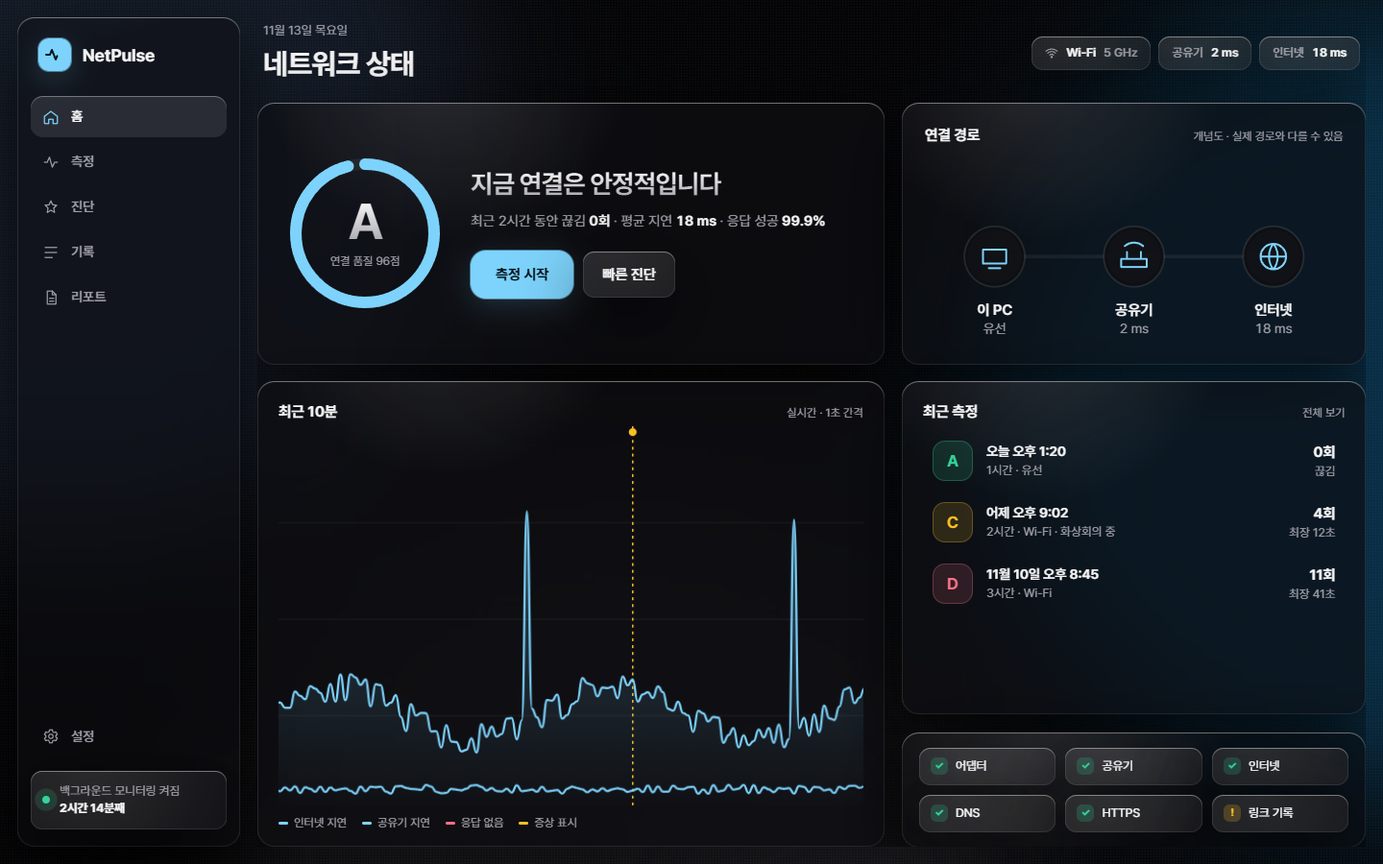
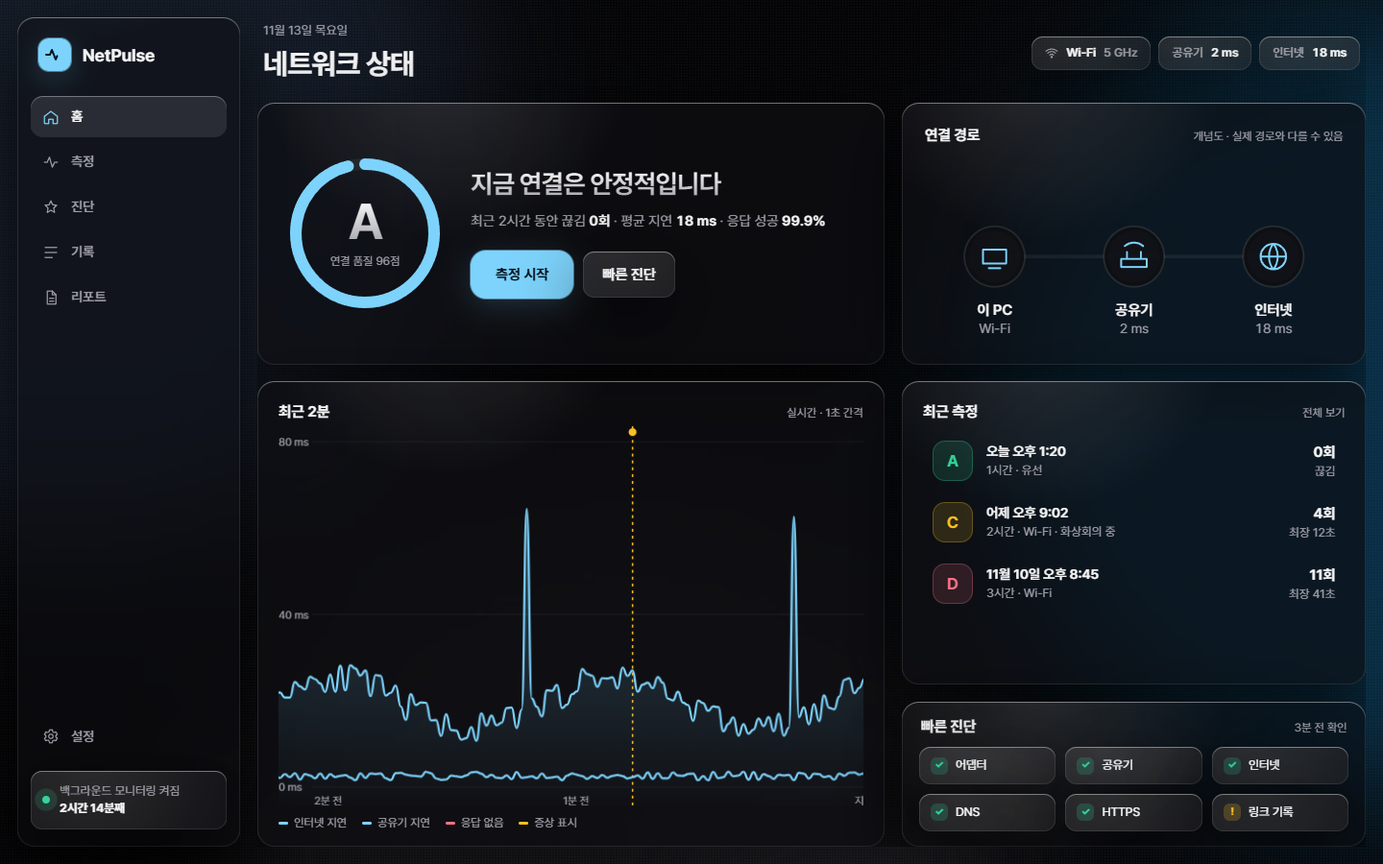
Regenerate M0 results from a clean commit and rewrite the report
All three spikes were measured again from commit 9540198 with a clean
worktree. The results table now comes straight from the summary files,
the public captures are replaced, the stripe test backs the glass
verdict, and the report lists the dependencies and minimum Windows build
that the stack decision would cover.

diff --git a/spikes/design/home-mockups.html b/spikes/design/home-mockups.html
@@ -458,14 +458,15 @@ function draw(now) {
   const w = canvas.clientWidth, h = canvas.clientHeight; if (!w || !h) return;
   ctx.clearRect(0, 0, w, h);
   const step = w / (N - 2), shift = root.dataset.motion === 'reduce' ? 0 : Math.min(1, (now - lastArrival) / 1000) * step;
-  const y = (v) => h - 20 - (v / 80) * (h - 36), x = (i) => w - (N - 1 - i) * step - shift;
+  const y = (v) => h - 26 - (v / 80) * (h - 42), x = (i) => w - (N - 1 - i) * step - shift;
   // 축: 지연 0·40·80 ms, 시간 2분 전·1분 전·지금
   ctx.strokeStyle = css('--faint'); ctx.lineWidth = 1;
   ctx.fillStyle = css('--muted'); ctx.font = '11px Pretendard, "Segoe UI", sans-serif';
   for (const v of [0, 40, 80]) { ctx.beginPath(); ctx.moveTo(34, y(v)); ctx.lineTo(w, y(v)); ctx.stroke(); ctx.fillText(v + ' ms', 0, y(v) + 4); }
   ctx.textAlign = 'center';
-  [['2분 전', 0.06], ['1분 전', 0.5]].forEach(([t, r]) => ctx.fillText(t, w * r + (r < .1 ? 14 : 0), h - 4));
-  ctx.textAlign = 'right'; ctx.fillText('지금', w, h - 4); ctx.textAlign = 'left';
+  ctx.textBaseline = 'bottom';
+  [['2분 전', 0.06], ['1분 전', 0.5]].forEach(([t, r]) => ctx.fillText(t, w * r + (r < .1 ? 14 : 0), h - 6));
+  ctx.textAlign = 'right'; ctx.fillText('지금', w, h - 6); ctx.textAlign = 'left'; ctx.textBaseline = 'alphabetic';
   // 응답 없음 구간: 세로 띠
   const bad = css('--bad');
   ctx.fillStyle = bad + '33';

diff --git a/docs/loop/m0/spike-report.md b/docs/loop/m0/spike-report.md
@@ -1,70 +1,61 @@
 # M0 스파이크 결과 보고서
 
-- 측정일: 2026-11-13
-- 환경: Windows 11 빌드 26300, 165 Hz 화면, 배율 100%, 관리자 권한 없음
+- 측정일: 2026-11-13. 환경: Windows 11 빌드 26300, 165 Hz 화면, 배율 100%, 관리자 권한 없음
 - 합격선: `docs/loop/DECISIONS.md` "M0 스파이크 합격선" (측정 전에 커밋 `875dd28`로 기록)
-- 원본 로그: `.loop/logs/m0/` (커밋 제외. 이 PC의 실행 기록이라서다)
+- **수치 판정표: [`spike-results.md`](spike-results.md)** — 측정 요약 JSON에서 `spikes/tools/make-results.mjs`가 만든다. 이 보고서는 수치를 옮겨 적지 않고 그 표를 근거로 쓴다.
+- 측정한 소스: 커밋 `9540198`, 깨끗한 작업트리. 세 후보 모두 `spikes/tools/run-spike.ps1` 하나로 빌드부터 캡처까지 돈다.
+- 원본 로그: `.loop/logs/m0-r3/` (커밋 제외)
 
 ## 후보
 
 | 이름 | 구성 | 배포 형태 |
 | --- | --- | --- |
 | A-net10 | WinForms 창 + WebView2(웹 화면) + .NET 10 본체 | 자체 포함 단일 exe + `web` 폴더 |
-| A-net48 | 같은 코드, 본체만 Windows 내장 .NET Framework 4.8 | exe + DLL 4개 + `web` 폴더 |
-| C | WinUI 3 (Windows App SDK 2.6.5), .NET 10 | 자체 포함 단일 exe + 리소스 2개 |
+| A-net48 | 같은 코드, 본체만 Windows 내장 .NET Framework 4.8 | exe + DLL + `web` 폴더 |
+| C | WinUI 3 (Windows App SDK 2.6.5), .NET 10 | 자체 포함 단일 exe + `App.xbf` + 앱 `.pri` |
 
-세 후보가 같은 측정 루프(`spikes/shared/SpikeCore.cs`)를 쓰고, 같은 시험 장면을 그린다. 측정과 조작은 스크립트 하나로 돈다(`spikes/tools/run-spike-a.ps1`, `run-spike-c.ps1`).
+세 후보가 같은 측정 루프(`spikes/shared/SpikeCore.cs`)를 쓰고 같은 시험 장면을 그린다.
 
-## 결과
+## 판정
 
-| | 항목 | 합격선 | A-net10 | A-net48 | C |
-| --- | --- | --- | --- | --- | --- |
-| P1 | 창 안쪽 유리 | 패널 뒤가 흐려 보임 | 통과 | 통과 | 통과 |
-| P2 | 프레임 | 평균 55 fps↑, 95백분위 25 ms↓ | 165 fps / 6.2 ms | 165 fps / 6.2 ms | 165 fps / 6.3 ms |
-| | 테마 반복 전환 중 | | 164.7 / 6.2 | 163.2 / 6.2 | 164.7 / 6.3 |
-| | 화면 반복 전환 중 | | 164.7 / 6.2 | 163.3 / 6.2 | 164.7 / 6.2 |
-| P3 | CPU (전체 코어 기준) | 15%↓ | 6.8% | 6.5% | 1.6% |
-| | 메모리 (작업 집합 합계) | 400 MB↓ | **575.7 MB ✗** | **501.2 MB ✗** | 146.0 MB |
-| | (보조) 전용 작업 집합 | 판정에 안 씀 | 224.3 MB | 180.8 MB | 40.6 MB |
-| | 프로세스 수 | | 7 | 7 | 1 |
-| P4 | 측정 영향 (49회차) | 누락 0, 지연 최대 100 ms↓ | 0 / 15.0 ms | 0 / 15.5 ms | 0 / 15.1 ms |
-| P5 | 30초 숨김 | 누락 0, 5초 안에 최신값 | 0, 표시 42 (최신 40) | 0, 표시 43 (최신 40) | 0, 표시 42 (최신 40) |
-| P6 | 비관리자 진단 API | 모두 결과 또는 명시적 실패 | 통과 | 통과 | 통과 |
-| P7 | 배포 크기 | 300 MB↓ | 50.4 MB | 1.1 MB | 94.0 MB |
-| | 두 번째 실행 시작 시간 | 3초↓ | 1.1초 | 1.1초 | 0.6초 |
-| | 쓰기 금지 폴더에서 시작 | 가능 | 가능 | 가능 | 가능 |
-| P8 | 자동화 (빌드→실행→조작→읽기→캡처) | 스크립트 하나 | 통과 (CDP + Playwright) | 통과 | 통과 (UI Automation) |
-| P9 | 설정 읽기 + 대체 화면 | 가능 | 통과 | 통과 | 통과 |
-| | **판정** | P1~P8 모두 통과 | **불합격 (P3 메모리)** | **불합격 (P3 메모리)** | **합격** |
+| | A-net10 | A-net48 | C |
+| --- | --- | --- | --- |
+| P1 창 안쪽 유리 (캡처) | 통과 | 통과 (A-net10과 같은 웹 화면) | 통과 |
+| P2~P8 (자동, `spike-results.md`) | **P3 불합격** | **P3 불합격** | 통과 |
+| P9 대체 동작 (캡처 + 코드) | 통과 | 통과 | 통과 |
+| **종합** | **불합격** | **불합격** | **합격** |
 
-P5의 "표시"는 다시 보인 직후 화면에서 읽은 회차 번호이고, "최신"은 다시 보이는 순간 본체가 기록한 회차다. 읽기까지 2~3초가 걸려 화면 값이 더 크다.
+### P1 창 안쪽 유리 — 캡처 판정
+
+`spike/a-net10-glass-test.png`, `spike/c-glass-test.png`. 6 px 간격 흑백 줄무늬 위에 같은 12% 틴트의 패널 셋을 나란히 놓았다.
+
+- **틴트만**: 두 안 모두 줄무늬가 선명하게 비친다.
+- **블러 / Acrylic**: 두 안 모두 줄무늬가 회색으로 뭉개진다. 창 안쪽에서 뒤 콘텐츠를 실제로 흐린다는 증거다.
+- **불투명**: 두 안 모두 줄무늬가 가려진다.
+
+**차이**: A는 패널마다 블러 강도를 정할 수 있다(`backdrop-filter: blur(Npx)`). C의 `AcrylicBrush`에는 블러 강도 속성이 없다. WinUI 2.6.5 투영 어셈블리의 속성 이름에서 `Tint*`, `Fallback*`, `AlwaysUseFallback`만 찾았다. C에서 강도를 바꾸려면 Composition 효과를 직접 짜야 하고, 이것은 시험하지 않았다.
+
+### P3 메모리 — 불합격의 내용
+
+- A는 WebView2가 프로세스 7개를 띄운다. 작업 집합 합계의 10초 최대값이 합격선 400 MB를 넘었다 (A-net10 570 MB, A-net48 488 MB).
+- 작업 집합 합계는 프로세스 사이 공유 페이지를 여러 번 센다. 공유분을 뺀 전용 작업 집합도 보조로 쟀다 (A-net10 최대 211 MB, A-net48 168 MB, C 41 MB). 전용 작업 집합도 앱의 전체 메모리 비용과 같지는 않다.
+- **합격선은 측정 전에 정한 그대로 적용했다.** 이 기준을 완화할지는 사용자 결정 사항으로 올린다.
+- 본체를 .NET Framework 4.8로 바꾸면 약 80 MB 줄지만 합격선 아래로는 내려가지 않는다. 대부분이 WebView2 몫이다.
+
+### P9 대체 동작 — 캡처와 코드 판정
+
+- 설정 읽기: Windows의 앱 테마, 투명 효과, 애니메이션 설정을 읽었다. 이 PC는 셋 다 켜짐이다. Windows 설정 자체를 바꾸는 시험은 하지 않았다.
+- 불투명 표면: `spike/a-net10-reduced.png`, `spike/c-reduced.png`. 강제 옵션으로 투명 효과를 끈 화면이다. 배경 빛이 사라지고 패널이 불투명하다.
+- 이동 없음: 움직임 줄이기에서 CSS·Storyboard 애니메이션, 그래프 흐름, 포인터를 따라가는 빛을 모두 끄도록 고쳤다(1차 검토 지적). 0.4초 간격 두 캡처를 비교하니 바뀐 화소는 그래프와 수치 영역 안에만 있었고, 배경과 탐색 막대는 그대로였다. 그 사이 새 회차 값이 들어와 그래프와 수치가 한 번에 바뀐 것으로 본다. 이 판단은 화소 위치에 근거한 추정이고, 회차 도착 시각과 대조하지는 않았다.
 
 ### 항목별 메모
 
-**P1 창 안쪽 유리** (`spike/p1-compare.png`, 왼쪽 A, 오른쪽 C)
-- 기본 장면은 틴트가 진해 얇은 선이 거의 사라져 판정이 어려웠다. 틴트를 12%로 낮춘 확인 모드를 따로 돌렸다. 두 안 모두 패널 뒤의 배경 빛이 번져 비치고 선은 흐려져 사라진다. 투명하기만 하고 흐리지 않았다면 선이 선명하게 보였을 것이다.
-- **차이**: A는 패널마다 블러 강도를 정할 수 있다(`backdrop-filter: blur(Npx)`). C의 `AcrylicBrush`에는 블러 강도 속성이 없다. WinUI 2.6.5 투영 어셈블리에서 `Tint*`, `Fallback*`, `AlwaysUseFallback`만 확인했다. C에서 강도를 바꾸려면 Composition 효과를 직접 짜야 하고, 이것은 시험하지 않았다.
-
-**P2 프레임**: 세 후보 모두 화면 주사율(165 Hz)에 붙었다. 이 장면으로는 차이가 나지 않았다. 측정 방식이 다르다는 점은 남는다. A는 웹 화면의 `requestAnimationFrame`, C는 `CompositionTarget.Rendering` 간격이다.
-
-**P3 메모리**
-- A는 WebView2가 브라우저·GPU·렌더러 등 프로세스 7개를 띄운다. 작업 집합 합계는 공유 페이지를 여러 번 센다. 그래서 공유분을 뺀 전용 작업 집합을 보조로 쟀다(A 181~224 MB, C 41 MB).
-- **합격선은 측정 전에 정한 그대로 적용한다.** 이 기준이 적절했는지는 사용자 결정 사항으로 올린다(아래 "결정 요청").
-- 본체를 .NET Framework 4.8로 바꿔도 74 MB 줄어드는 데 그쳤다. 대부분이 WebView2 몫이다.
-
-**P6 진단 API**: 세 후보 모두 ICMP, 시스템 이벤트 로그 읽기, 최적 인터페이스 조회, 인터페이스 상태 읽기가 됐다. **A-net48에서는 인터페이스 수가 5개로 나왔다**(.NET 10은 57개). .NET Framework가 일부 인터페이스를 다르게 열거하는 것으로 보인다. 원인은 확인하지 않았다. 제품 엔진(M3·M4)에서 인터페이스 관측을 설계할 때 확인할 항목이다.
-
-**P7 배포**
-- A-net48이 가장 작다(1.1 MB). Windows 11에 들어 있는 .NET Framework와 WebView2를 쓰기 때문이다.
-- C는 단일 파일로 만들려면 `EnableMsixTooling`이 필요하다. 그래도 `App.xbf`와 앱 `.pri`가 exe 옆에 따로 남는다.
-- 시작 시간은 프로세스 시작부터 첫 화면 프레임까지다.
-
-**P8 자동화**
-- A: WebView2에 원격 디버깅 포트를 열어 Playwright로 붙었다. 포트는 자동화 실행에서만 연다.
-- C: Windows UI Automation으로 버튼을 누르고, 글자를 읽고, 한글을 입력했다. 이를 위해 C# 코드에서 만든 컨트롤마다 AutomationId를 붙였다.
-- 한글 입력은 두 안 모두 유니코드 문자 입력으로만 확인했다. 입력기 조합은 확인하지 않았다.
-
-**P9 대체 동작**: Windows의 앱 테마, 투명 효과, 애니메이션 설정을 레지스트리와 시스템 매개변수로 읽었다. 이 PC는 셋 다 켜짐이다. 끄는 경우의 화면은 앱 강제 옵션으로 만들었다(`spike/a-net10-reduced.png`, `spike/c-winui-reduced.png`). Windows 설정 자체를 바꾸는 시험은 하지 않았다.
+- **P2**: 세 후보 모두 화면 주사율(165 Hz)에 붙어 이 장면으로는 차이가 나지 않았다. 측정 방식은 다르다. A는 웹 화면의 `requestAnimationFrame`, C는 `CompositionTarget.Rendering` 간격이다. 둘 다 앱이 받는 프레임 콜백이고 화면에 실제로 표시된 프레임과 같지 않을 수 있다.
+- **P4**: 장면을 돌리며 75초 동안 76회차를 기록했다. 회차마다 예정·실제 시각을 남겨 중복·누락·지연을 원본에서 계산했다.
+- **P5**: 30초 숨긴 뒤 다시 보인 순간부터 100 ms마다 화면의 회차 번호를 읽어, 복귀 시점의 최신 회차가 표시될 때까지 걸린 시간을 쟀다.
+- **P6**: 세 후보 모두 ICMP, 시스템 이벤트 로그 읽기, 최적 인터페이스 조회, 인터페이스 상태 읽기가 됐다. **A-net48은 인터페이스를 .NET 10보다 훨씬 적게 열거했다**(로그에 개수 기록, 화면에는 표시하지 않음). 원인은 확인하지 않았다. 제품 엔진(M3·M4)에서 인터페이스 관측을 설계할 때 확인할 항목이다.
+- **P7**: 첫 실행은 사용자 데이터 폴더를 지운 상태에서 쟀다. C의 첫 실행이 1.76초로 가장 느리다. 단일 파일이 처음에 내용을 푸는 시간으로 추정한다. 쓰기 금지 폴더(파일 만들기·쓰기 거부)에서 세 후보 모두 시작했다.
+- **P8**: A는 WebView2 원격 디버깅 포트를 자동화 실행에서만 열고 Playwright로 붙었다. C는 Windows UI Automation으로 조작했고, 이를 위해 코드에서 만든 컨트롤마다 AutomationId를 붙였다. 한글 입력은 두 안 모두 유니코드 문자 입력으로만 확인했다. 입력기 조합은 확인하지 않았다.
 
 ## 표현력 비교 (합격선 밖, 추천 근거)
 
@@ -79,29 +70,40 @@ P5의 "표시"는 다시 보인 직후 화면에서 읽은 회차 번호이고, 
 
 ## 스파이크 중 발견한 것
 
-`DECISIONS.md` "스파이크 진행 중 발견"에 자세히 적었다. 요약:
+`DECISIONS.md` "스파이크 진행 중 발견"과 "M0 G4 1라운드"에 자세히 적었다. 제품 설계로 넘길 것:
 
-1. 측정 루프가 타이머가 일찍 깨면 같은 회차를 두 번 기록했다. 고쳤고, 제품 엔진의 테스트 항목으로 넘긴다.
-2. C에서 첫 측정값이 화면 배치보다 먼저 오면 null 참조로 앱이 종료됐다. 고쳤다.
-   - 이 버그를 모르는 동안 "C는 단일 파일 배포가 안 된다"는 틀린 결론을 한때 적었다가 바로잡았다.
-   - 제품 설계에 주는 교훈: 측정과 화면의 준비 순서를 명시적으로 다뤄야 한다.
-3. A-net48과 A-net10의 인터페이스 열거 결과가 다르다.
+1. 측정 루프가 타이머가 일찍 깨면 같은 회차를 두 번 기록했다. 고쳤고, 제품 엔진(M3)의 테스트 항목이다.
+2. C에서 첫 측정값이 화면 배치보다 먼저 오면 null 참조로 앱이 종료됐다. 측정과 화면의 준비 순서를 제품에서 명시적으로 다뤄야 한다. 이 버그를 모르는 동안 "C는 단일 파일 배포가 안 된다"는 틀린 결론을 한때 적었다가 바로잡았다.
+3. 사용자 데이터 폴더가 없는 첫 실행 경로를 시험에 넣어야 한다. 1차 검토에서 C의 진단 기록 코드가 이 경로에서 실패할 수 있다는 지적을 받고 고쳤다.
+4. .NET Framework 4.8과 .NET 10의 인터페이스 열거 결과가 다르다.
 
 ## 결정 요청 (D1)
 
-합격선을 그대로 적용하면 **C만 합격**이다. 다만 A가 떨어진 이유는 메모리 한 항목이고, A가 요구의 중심(화려한 유리와 모션)에서 더 자유롭다. 그래서 두 길을 나란히 올린다.
+합격선을 그대로 적용하면 **C만 합격**이다. A가 떨어진 이유는 메모리 한 항목이고, A가 요구의 중심(화려한 유리와 모션)에서 더 자유롭다. 그래서 두 길을 나란히 올린다.
 
-| | C로 간다 (합격선대로) | A로 간다 (메모리 기준 완화) |
+| | C로 간다 (합격선대로) | A로 간다 (메모리 기준을 사용자가 완화) |
 | --- | --- | --- |
-| 장점 | 가볍다 (CPU 1.6%, 메모리 146 MB, 프로세스 1개). 측정한 모든 항목 통과 | 유리·광택·전환을 가장 자유롭게. 디자인 시안을 그대로 옮김. A-net48이면 배포 1.1 MB |
-| 단점 | 블러 강도 고정, 고급 효과는 Composition으로 직접 작성. 시안 재현에 품이 듦 | 메모리 500~580 MB (전용 180~220 MB), 프로세스 7개. 상주 모니터링 앱으로는 무거움 |
-| 위험 | 시안의 무지갯빛 테두리·원형 확산을 같은 품질로 낼 수 있는지 미확인 | 사용자가 하루 종일 켜 둘 때의 체감 부담 |
+| 장점 | 가볍다 (CPU 약 2%, 메모리 약 146 MB, 프로세스 1개). 측정한 모든 항목 통과 | 유리·광택·전환을 가장 자유롭게. 디자인 시안을 그대로 옮김. A-net48이면 배포 1.1 MB |
+| 단점 | 블러 강도 고정, 고급 효과는 Composition으로 직접 작성. 시안 재현에 품이 듦 | 메모리 490~570 MB (전용 170~210 MB), 프로세스 7개. 상주 앱으로는 무거움 |
+| 위험 | 고른 시안의 무지갯빛 테두리·원형 확산·흐르는 빛을 같은 품질로 낼 수 있는지 **미확인** | 하루 종일 켜 둘 때의 체감 부담. 장시간 메모리 증가는 재지 않음 |
+| 확정 전 추가 확인 | 고른 시안의 대표 카드·유리 겹침·테마 전환을 C로 재현해 비교 (M0 안에서) | 사용자가 승인한 새 메모리 예산을 기록하고, 그 예산으로 다시 판정 |
 
-Claude 추천과 Codex 의견은 결정 요청 메시지에 함께 적는다.
+### 주요 의존성과 최소 지원 버전
+
+| | C | A |
+| --- | --- | --- |
+| 제품 런타임 | Windows App SDK 2.6.5 (자체 포함), .NET 10 (자체 포함), System.Diagnostics.EventLog 10.0.3 | Microsoft.Web.WebView2 1.0.4314.35, .NET 10 자체 포함 또는 Windows 내장 .NET Framework 4.8, Windows 11 내장 WebView2 런타임 |
+| 빌드 | .NET SDK 10.0.103 | .NET SDK 10.0.103 (net48은 참조 어셈블리 패키지 1.0.3, 빌드 전용) |
+| 테스트·자동화 (빌드 전용, 미확정) | xUnit 계열 테스트 러너, Windows UI Automation(내장) | xUnit 계열 테스트 러너, playwright-core 1.65.0 |
+| 차트 | 미확정. 직접 그리기 또는 차트 라이브러리를 M2 설계에서 정함 | 미확정. Canvas 직접 그리기 또는 라이브러리를 M2 설계에서 정함 |
+| 최소 Windows | 제안: Windows 11 22H2(빌드 22621) 이상. Mica와 창 뒤 재질 API의 최소 빌드에 맞춤. 스파이크 프로젝트의 최소 플랫폼 값(19041)은 빌드 설정일 뿐 시험하지 않았다 | 같은 제안 |
+
+미확정 항목(테스트 러너, 차트)은 D1 승인 범위에 넣지 않고 M1·M2 설계에서 정해 Codex 검토를 받는다. 새 제품 런타임 의존성이 생기면 기획서 4.5에 따라 다시 묻는다.
 
 ## 이 스파이크가 증명하지 못한 것
 
 - 프레임은 165 Hz 화면 한 대의 값이다. 저사양 PC, 60 Hz 화면, 배율 150%는 재지 않았다.
-- 장시간(몇 시간) 실행의 메모리 증가는 재지 않았다.
+- 장시간(몇 시간) 실행의 메모리 증가와 숨김 상태의 자원 사용은 재지 않았다.
 - C의 Composition 효과로 시안 수준의 표현이 나오는지는 만들어 보지 않았다.
 - A의 투명 웹 바탕과 창 뒤 Mica 조합은 시험하지 않았다.
+- 실제 Windows 설정(투명 효과·애니메이션·고대비)을 바꾼 동작, 입력기 조합.

diff --git a/docs/loop/m0/design-options.md b/docs/loop/m0/design-options.md
@@ -11,14 +11,14 @@
 | 등급 링과 결론 | 연결 품질 등급(A~D)과 점수, 한 문장 결론, 근거 한 줄 | 품질 등급과 쉬운 설명: EMCO Ping Monitor의 4단계 품질, PeakHour의 문자 등급 (N2) |
 | 측정 시작 | 가장 큰 행동 버튼, 옆에 빠른 진단 | 첫 실행 안내 (N14) |
 | 연결 경로 | 이 PC → 공유기 → 인터넷을 노드와 흐르는 빛으로. "개념도" 표시 | Claude 제안 (N13). 실제 경로가 아님을 밝히라는 Codex 지적 반영 |
-| 최근 10분 | 지연선, 응답 없음 세로 띠, 증상 표시 마커를 한 축에 | 겹침 타임라인: PingPlotter의 타임라인 그래프 (N1) |
+| 최근 2분 | 지연선, 응답 없음 세로 띠, 증상 표시 마커를 한 축에. 지연(ms)과 시간 축 표시 | 겹침 타임라인: PingPlotter의 타임라인 그래프 (N1) |
 | 최근 측정 | 측정마다 등급, 길이, 연결 방식, 메모, 끊김 횟수와 최장 길이 | 끊김 목록과 통계: Net Uptime Monitor, EMCO (N3, N8) |
-| 빠른 진단 요약 | 여섯 검사의 상태 칩 | 기존 앱의 빠른 진단 (F1), Apple 무선 진단의 요약 화면 (N5) |
+| 빠른 진단 요약 | 여섯 검사의 상태 칩과 검사 시각 | 기존 앱의 빠른 진단 (F1), Apple 무선 진단의 요약 화면 (N5) |
 | 상주 표시 | 백그라운드 모니터링 상태 | 트레이 상주: Net Uptime Monitor, iStat Menus (N7) |
 
 **공통 연출**: 카드가 차례로 떠오름, 등급 점수가 올라감, 경로에 빛이 흐름, 타임라인이 매초 밀려 들어옴, 로고의 심박선, 측정 시작 버튼의 광택이 지나감, 포인터를 따라가는 빛, 테마 전환 시 원형 확산.
 
-**끊김 연출** (막대의 "끊김 연출"): 배경 빛이 붉게 물들고, 경로의 공유기→인터넷 구간이 붉게 깜빡이며, 등급이 D로 내려가고, 결론이 "인터넷 구간에서 끊김이 이어지고 있습니다"로 바뀐다. 기획서 7.4의 상태 반응이다. 결론 문장은 6.2의 판정 구분("공유기는 응답하지만 외부 대상이 함께 응답하지 않음")을 따른다.
+**끊김 연출** (막대의 "끊김 연출"): 배경 빛이 붉게 물들고, 경로의 공유기→인터넷 구간이 붉게 깜빡이며, 등급이 D로 내려가고, 빠른 진단의 인터넷·HTTPS 칩이 실패로 바뀐다. 결론은 "외부 인터넷 연결이 끊긴 것으로 보입니다"다. 기획서 6.2의 판정 구분 중 "외부 연결 단절 추정"이므로 단정하지 않는다. 근거 한 줄에 "공유기는 응답하지만 서로 다른 외부 대상 3곳이 함께 응답하지 않습니다"를 쓴다.
 
 ## 세 시안
 
@@ -39,16 +39,23 @@
 
 ## 시안 비교
 
+아래는 Claude의 눈으로 본 평가다. 대비를 계산하지 않았으므로 "읽기"는 정량 검증이 아니다.
+
 | | 오로라 | 흑요석 | 프리즘 |
 | --- | --- | --- | --- |
 | 화려함 | 가장 높음 | 낮음 (의도적) | 높음 |
-| 숫자·그래프 읽기 | 좋음 | 가장 좋음 | 좋음 |
+| 숫자·그래프 읽기 (눈으로 본 인상) | 밝은 청록 배경 위 보조 글자는 조정 필요 | 가장 차분함. 단, 두 그래프와 범례가 같은 강조색이라 구분이 약함 | 무지갯빛 테두리가 모든 카드와 칩에 있어 중요도 차이가 약해짐 |
 | 오래 켜 둘 때 피로 | 중간 | 낮음 | 높음 (테두리가 계속 돎) |
 | C(WinUI)로 옮길 때 품 | 중간 (흐르는 빛, 그라디언트 글자) | 낮음 | 높음 (회전하는 무지갯빛 테두리) |
+
+세 시안은 재질과 빛의 방향이 다를 뿐 화면 구조는 같다. 기획서가 같은 홈 화면으로 비교하라고 했기 때문이다. 화면 구조(배치, 탐색)는 M5 설계에서 다시 검토한다.
+
+**고를 때 섞을 수 있는 것** (예): 오로라의 빛과 색 + 흑요석의 얇고 날카로운 유리, 또는 오로라 + 프리즘의 무지갯빛 테두리를 측정 시작 버튼과 끊김 상태에만.
 
 ## 알려진 한계
 
 - 합성 데이터다. 실제 측정값의 범위와 다를 수 있다.
 - 홈 화면 하나만 만들었다. 측정, 기록, 리포트 화면은 고른 시안을 기준으로 M2·M5 이후에 만든다.
-- 대비를 계산으로 검증하지 않았다. G5 대비 검사는 M2에서 디자인 토큰을 확정한 뒤 한다.
+- 대비를 계산으로 검증하지 않았다. 가장 불리한 배경 조건의 대비 검사는 M2에서 디자인 토큰을 확정한 뒤 한다.
+- 고대비 모드의 대체 화면은 시안에 없다. 효과 줄이기(`aurora-dark-reduced.png`)만 있다. 고대비는 M2에서 만든다.
 - "잘 팔리는 디자인"은 입증하지 못했다. 조사한 제품들이 공통으로 내세우는 기능과 화면 구성을 참고했고, 색과 빛은 사용자가 말한 애플 글래스모피즘 취향에 맞춰 Claude가 제안했다.

diff --git a/docs/loop/m0/spike-results.md b/docs/loop/m0/spike-results.md
@@ -1,0 +1,31 @@
+<!-- spikes/tools/make-results.mjs 가 요약 JSON에서 만든 파일. 손으로 고치지 않는다. -->
+
+| 항목 | 합격선 | A-net10 | A-net48 | C |
+| --- | --- | --- | --- | --- |
+| P1 창 안쪽 유리 | 패널 뒤가 흐려 보임 | 캡처 판정 | 캡처 판정 | 캡처 판정 |
+| P2 프레임 (정지 장면) | 평균 55 fps↑, 95백분위 25 ms↓ | 165 fps / 6.2 ms | 165 fps / 6.2 ms | 165 fps / 6.2 ms |
+| 　테마 반복 전환 중 (6초) |  | 164.3 / 6.2 | 164 / 6.2 | 164.8 / 6.2 |
+| 　화면 반복 전환 중 (6초) |  | 163.5 / 6.2 | 163.7 / 6.2 | 164.8 / 6.2 |
+| P3 CPU (10초, 전체 코어 기준) | 15%↓ | 6.07% | 6.27% | 2.1% |
+| 　메모리 작업 집합 합계 (평균 / 최대) | 최대 400 MB↓ | 540.9 / 569.7 MB | 462.1 / 488.4 MB | 143.9 / 146.2 MB |
+| 　(보조) 전용 작업 집합 (평균 / 최대) | 판정에 안 씀 | 185.3 / 210.5 MB | 145.4 / 167.7 MB | 39 / 40.5 MB |
+| 　관측된 프로세스 수 |  | 7 | 7 | 1 |
+| P4 측정 영향 | 60초 이상, 중복·누락 0, 지연 최대 100 ms↓ | 76초 76회차, 중복 0, 누락 0, 최대 15.3 ms | 76초 76회차, 중복 0, 누락 0, 최대 25.5 ms | 76초 76회차, 중복 0, 누락 0, 최대 15.3 ms |
+| P5 30초 숨김 후 | 누락 0, 5초 안에 최신 회차 | 누락 0, 30 ms 만에 40 (복귀 시 최신 40) | 누락 0, 35 ms 만에 40 (복귀 시 최신 40) | 누락 0, 18 ms 만에 40 (복귀 시 최신 40) |
+| P6 비관리자 진단 API | 네 API 모두 응답 | 4/4 | 4/4 | 4/4 |
+| P7 배포 크기 (파일 수) | 300 MB↓ | 49.7 MB (4) | 1.1 MB (10) | 94 MB (3) |
+| 　첫 실행 / 두 번째 실행 시작 | 두 번째 3초↓ | 0.88 / 0.86초 | 0.72 / 0.68초 | 1.76 / 0.53초 |
+| 　쓰기 금지 폴더에서 시작 | 가능 | 가능 | 가능 | 가능 |
+| P8 자동화 | 스크립트 하나로 끝까지 | 통과 | 통과 | 통과 |
+| P9 대체 동작 | 설정 읽기 + 대체 화면 | 캡처 판정 | 캡처 판정 | 캡처 판정 |
+| **자동 판정 (P2~P8)** |  | **불합격 (P3)** | **불합격 (P3)** | 통과 |
+
+**측정 근거**
+
+| 후보 | 측정 시각 | 소스 커밋 (작업트리) | SDK | 빌드 명령 | 실행 파일 SHA-256 |
+| --- | --- | --- | --- | --- | --- |
+| A-net10 | 2026-11-13T03:48:58.4972629+09:00 | `9540198` (깨끗함) | 10.0.103 | `dotnet publish spikes\a-webview\SpikeA.csproj -c Release -f net10.0-windows -r win-x64 --self-contained true -p:PublishSingleFile=true -p:IncludeNativeLibrariesForSelfExtract=true -p:EnableCompressionInSingleFile=true -o <out>` | `6314047B69DBDCA1…` |
+| A-net48 | 2026-11-13T03:45:39.8199818+09:00 | `9540198` (깨끗함) | 10.0.103 | `dotnet publish spikes\a-webview\SpikeA.csproj -c Release -f net48 -o <out>` | `A3B1860012D448A7…` |
+| C | 2026-11-13T03:42:10.1964976+09:00 | `9540198` (깨끗함) | 10.0.103 | `dotnet publish spikes\c-winui\SpikeC.csproj -c Release -r win-x64 --self-contained true -p:EnableMsixTooling=true -p:PublishSingleFile=true -p:IncludeNativeLibrariesForSelfExtract=true -p:EnableCompressionInSingleFile=true -o <out>` | `94093E40411B037D…` |
+
+WebView2 런타임: A-net10 157.0.4341.46, A-net48 157.0.4341.46

diff --git a/docs/loop/STATE.md b/docs/loop/STATE.md
@@ -7,33 +7,30 @@
 | 항목 | 값 |
 | --- | --- |
 | 마일스톤 | M0 결정 |
-| 단계 | ① 착수 — 기능 명세서와 스파이크 준비 |
+| 단계 | ⑥ G4 리뷰 2라운드 |
 | 브랜치 | `loop/m0-decisions` (base `main` = `e852c6b`) |
-| 설계 검토 라운드 | 0 / 2 |
-| diff 리뷰 라운드 | 0 / 3 |
-| 누적 실패 | 0 / 8 |
+| 측정한 소스 | `9540198` (깨끗한 작업트리) |
+| diff 리뷰 라운드 | 2 / 3 |
+| 누적 실패 | 1 / 8 (G4 1라운드 `REVISE`) |
 | PR | 없음 |
 
-## 게이트
+## 게이트 (M0 전용 절차, 기획서 8절)
 
-| 게이트 | 통과 SHA | 비고 |
+| 게이트 | 상태 | 근거 |
 | --- | --- | --- |
-| G1 | | |
-| G2 | | |
-| G3 | | |
-| G5 | | |
-| G4 | | |
+| G1 빌드 기록 | 통과 | `spike-results.md` 측정 근거 표 (명령, SDK, 실행 파일 해시) |
+| G2 검증·미검증 구분 | 통과 | `spike-report.md` "이 스파이크가 증명하지 못한 것" |
+| G3 실제 조작·진단 API | 통과 | `run-spike.ps1`, P6·P8 |
+| G5 후보 비교 | 완료 | `spike-results.md`, `spike-report.md`, `design-options.md` |
+| G4 Codex | 1라운드 `REVISE` → 수정 → 2라운드 대기 | `.loop/reviews/m0-g4-r1-codex.md` |
 
 ## 미해결 지적
 
-없음
+없음 (1라운드 13건 모두 처리, `DECISIONS.md` 참조)
 
 ## 다음 할 일
 
-1. Codex 읽기 전용 실효성 확인
-2. `docs/loop/feature-inventory.md` 작성
-3. 스파이크 합격선을 `DECISIONS.md`에 먼저 기록
-4. A안, C안 스파이크와 디자인 시안 3종
-5. 측정과 캡처, 결과 보고서
-6. Codex G4 검토
-7. D1·D2 사용자 컨펌
+1. Codex G4 2라운드
+2. D1·D2 사용자 컨펌
+3. D1이 C면 고른 시안의 대표 요소를 C로 재현해 확인 (spike-report "확정 전 추가 확인")
+4. M0 마감: 공개 전 검사 → 푸시 → PR
